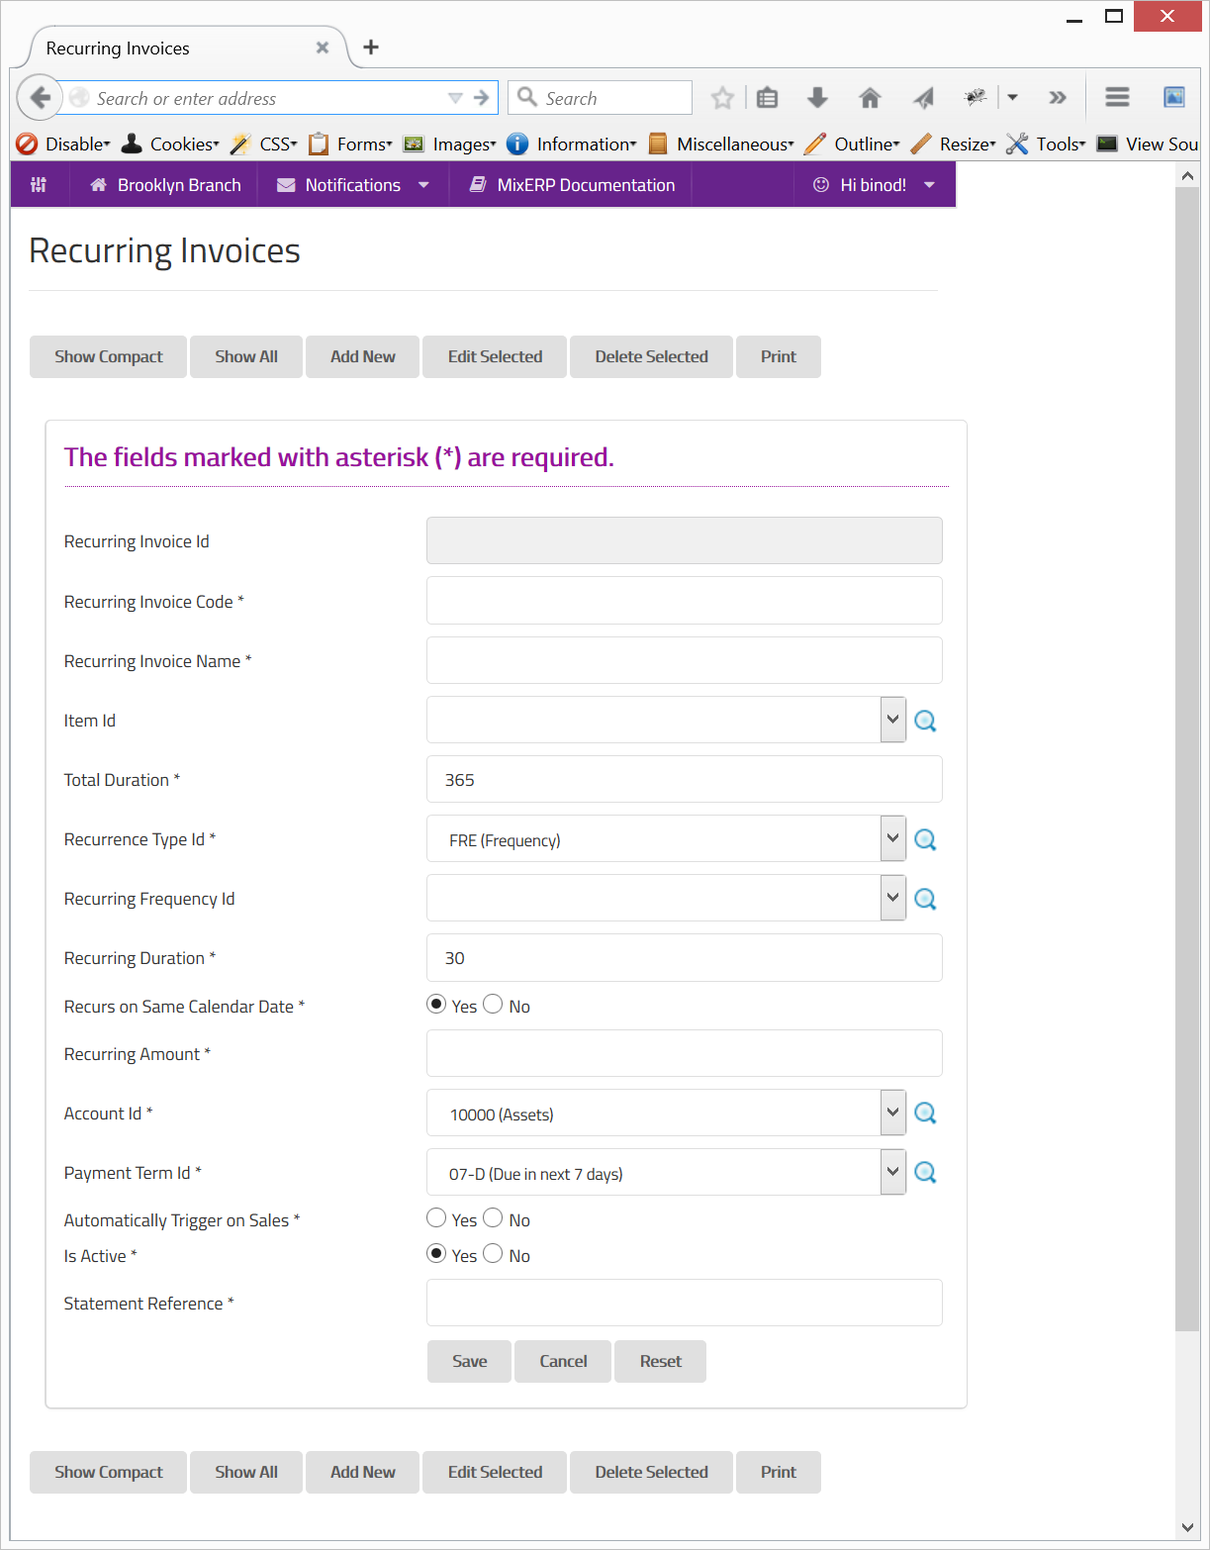
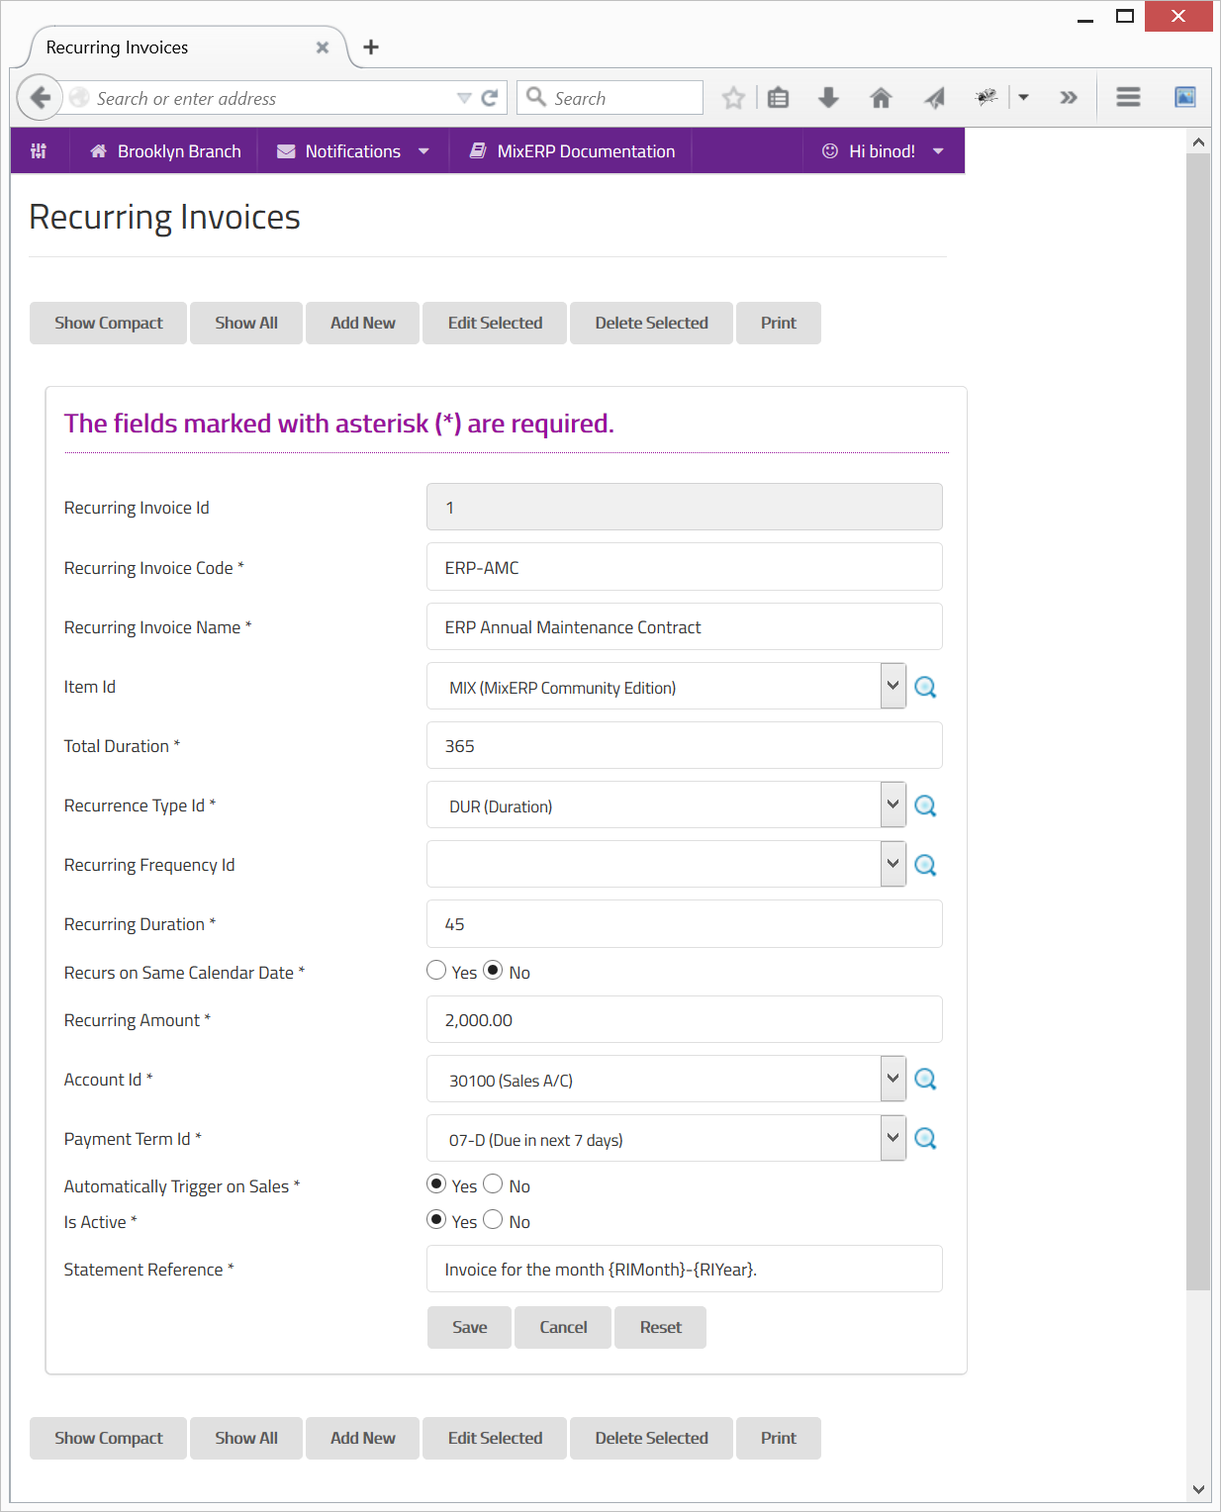
Created and updated documentation of Recurring Invoices

diff --git a/docs/user-guide/sales/setup/recurring-invoices.html b/docs/user-guide/sales/setup/recurring-invoices.html
@@ -2,7 +2,7 @@
 <html lang=en><head><meta charset=utf-8><title>Recurring Invoices</title><script src=/docs/assets/bundles/scripts.js>
 
 
-    </script><link href=//cdn.rawgit.com/noelboss/featherlight/1.2.3/release/featherlight.min.css type=text/css rel=stylesheet title="Featherlight Styles"><link href=/docs/assets/bundles/styles.min.css rel=stylesheet><link href="http://fonts.googleapis.com/css?family=Raleway:300" rel=stylesheet type=text/css><link href="http://fonts.googleapis.com/css?family=Open+Sans" rel=stylesheet type=text/css></head><body><div class="sticky contain-to-grid"><nav class=top-bar data-topbar><ul class=title-area><li class=name><h1><a href=/index.html><img src=/docs/assets/images/mixerp-logo.png></a></h1></li><li class="toggle-topbar menu-icon"><a href=javascript:void(0);><span></span></a></li></ul><section class=top-bar-section><ul class=right><li><a class=right-off-canvas-toggle href=javascript:void(0);> Sub Topics </a></li></ul></section></nav></div><div class=off-canvas-wrap data-offcanvas><div class=inner-wrap><aside class=right-off-canvas-menu><ul class=topics></ul></aside><div class=row><div class="large-12 large-centered columns"><div id=content><h1>Recurring Invoices</h1><p>Recurring invoice is a sophisticated system which saves hours of effort entering the same invoices for each period. Once the invoice details are entered they are never forgotten and are billed on time and for the correct amounts. Recurring Invoicing records details of contracts, including start, end and review dates. Invoices may include hours/quantities multiplied by a rate or simple value amounts. Each contract can be billed daily, on a particular day of the week, e.g. every friday, or on the same day of every month, the same date every year or according to user-defined calendars or dates relative to the last invoice date. This gives complete flexibility to invoicing schedules.</p><p><img src=images/recurring-invoices.png alt="Recurring Invoices"></p><h2>Fields</h2><p><strong>Recurring Invoice Id</strong></p><p>This is an auto-generated and read-only field.</p><p><strong>Recurring Invoice Code</strong></p><p>Provide a unique code name for the recurring invoice.</p><p><strong>Recurring Invoice Name</strong></p><p>Provide a name for the recurring invoice.</p><p><strong>Item Id</strong></p><p>Select the item or search by clicking the icon <i class=item-selector></i>.</p><p><strong>Compound Item Id</strong></p><p>Select the compound item or search by clicking the icon <i class=item-selector></i>.</p><p><strong>Recurring Frequency Id</strong></p><p>Select the recurring frequency or search by clicking the icon <i class=item-selector></i>.</p><p><strong>Recurring Amount</strong></p><p>Specify the amount for recurring of the items.</p><p><strong>Automatically Trigger on Sales</strong></p><p>Click on yes to trigger on sales.</p><div class="alert-box scrud radius"> Since this form implements ScrudFactory helper module, the detailed explanation of this feature is not provided in this document. View <a href=../../core-concepts/scrud-factory.html>ScrudFactory Helper Module Documentation</a> for more information. </div><h2>Related Topics</h2><ul><li><a href=../setup-and-maintenance.html>Setup and Maintenance</a></li></ul></div></div></div><a class=exit-off-canvas></a><footer class=footer><div class="row full-width"><div class="small-12 medium-3 large-3 columns"><i class=fi-download></i><p> MixERP is an open source and free ERP software that provides a suite of useful modules to help you manage your day to day business activities, including but not limited to, sales, purchases, inventory management, finance, customer relationship management, and back-office. Developed with love by your friends at MixERP Inc. </p></div><div class="small-12 medium-3 large-3 columns"><i class=fi-lightbulb></i><p> Some sections in this documentation site are missing. This site is a <a href=index.html#community.md> community effort </a> and work in progress. </p><p> This work is licensed under a <a href=http://creativecommons.org/licenses/by-sa/4.0/ rel=license> Creative Commons Attribution-ShareAlike 4.0 International License </a> . </p></div><div class="small-12 medium-3 large-3 columns"><i class=fi-anchor></i><ul class=footer-links><li><a href=http://mixerp.org/forum target=_blank> MixERP Forums </a></li><li><a href=https://github.com/mixerp/mixerp/issues target=_blank> Submit an Issue </a></li><li><a href=https://github.com/mixerp/mixerp/releases target=_blank> Download Latest Release </a></li><li><a href=http://demo.mixerp.org/SignIn.aspx target=_blank> MixERP Demo Website </a></li></ul><br><br><br></div><div class="small-12 medium-3 large-3 columns"><i class=fi-comments></i><ul class=footer-links><li><a href=http://mixerp.org/ target=_blank> Project Website </a></li><li><a href=https://www.facebook.com/mixerp.official/ target=_blank> Follow MixERP on Facebook </a></li><li><a href=http://www.facebook.com/groups/183076085203506/ target=_blank> Facebook Discussion Group </a></li><li><a href=http://twitter.com/mixoferp/ target=_blank> Follow MixERP on Twitter </a></li><li style="list-style: none; display: inline"><ul></ul></li></ul><br><br><br></div></div></footer></div></div><script src=//cdn.rawgit.com/noelboss/featherlight/1.2.3/release/featherlight.min.js type=text/javascript charset=utf-8></script><script>
+    </script><link href=//cdn.rawgit.com/noelboss/featherlight/1.2.3/release/featherlight.min.css type=text/css rel=stylesheet title="Featherlight Styles"><link href=/docs/assets/bundles/styles.min.css rel=stylesheet><link href="http://fonts.googleapis.com/css?family=Raleway:300" rel=stylesheet type=text/css><link href="http://fonts.googleapis.com/css?family=Open+Sans" rel=stylesheet type=text/css></head><body><div class="sticky contain-to-grid"><nav class=top-bar data-topbar><ul class=title-area><li class=name><h1><a href=/index.html><img src=/docs/assets/images/mixerp-logo.png></a></h1></li><li class="toggle-topbar menu-icon"><a href=javascript:void(0);><span></span></a></li></ul><section class=top-bar-section><ul class=right><li><a class=right-off-canvas-toggle href=javascript:void(0);> Sub Topics </a></li></ul></section></nav></div><div class=off-canvas-wrap data-offcanvas><div class=inner-wrap><aside class=right-off-canvas-menu><ul class=topics></ul></aside><div class=row><div class="large-12 large-centered columns"><div id=content><h1>Recurring Invoices</h1><p>When your business needs to generate invoices on a regular basis, <strong>Recurring Invoices</strong> feature comes handy. Not only recurring invoices saves hours of manual posting task, but also it reduces human mistakes.</p><div class="alert-box scrud radius"> Recurring invoices is a workflow which automatically posts invoices on a periodic basis until the term (total duration) is over. </div><p>So, before you are too overwhelmed by the recurring invoices workflow, let's first understand the GL entry it produces:</p><h2>For Accountants</h2><p>Whenever a recurring invoice is posted, the following GL entry will be created:</p><table border=1 style="border-collapse:collapse;border:1px solid black;width:100%;"><thead><tr><td> Account </td><td> Type </td><td> Amount </td></tr></thead><tbody><tr><td> Associated Party's GL Account </td><td> AP/AR </td><td> Debit </td></tr><tr><td> Mapped Account * </td><td> Income Heading </td><td> Credit </td></tr><tr><td colspan=3> * Mapped account refers to the <b>"Account Id"</b> field associated with the recurring invoice. </td></tr></tbody></table><h3>FAQs</h3><p><strong>Why my recurring invoices are not being posted?</strong></p><p>When creating a recurring invoice, if you switched <strong>"Automatically Trigger on Sales"</strong> off, you will have to <a href=recurring-invoice-setup.html>manually link the recurring invoice</a> you created to a party account first.</p><p><strong>When will recurring invoice(s) be posted?</strong></p><p>Recurring invoices are posted during EOD operation.</p><p><strong>Is there any expression support for the statement reference field?</strong></p><p>Yes.</p><p>The statement reference field supports a couple of expressions:</p><p><strong>RIMonth</strong></p><p>Parses to the month name of the recurring invoice posting date.</p><p><strong>RIYear</strong></p><p>Parses to the year of the recurring invoice posting date.</p><p><strong>For Example</strong></p><p>The statement reference</p><p><em>Invoice for the month {RIMonth}-{RIYear}.</em></p><p>will be parsed as</p><p><em>Invoice for the month <strong>SEP-2015</strong>.</em></p><p>if it was posted during September 2015.</p><p><strong>How can I stop a recurring invoice?</strong></p><p>You can switch the field <strong>"Is Active"</strong> off or delete the associated entry in <a href=recurring-invoice-setup.html>recurring invoice setup</a>; thenceforth, no further invoices will be generated.</p><h2>Core Concepts</h2><p>A recurring invoice is a template that is attached to a product, item, or service that you sell. MixERP provides you an option to automatically trigger and create a mapping during sales. In simple terms, if a recurring invoice is switched on to <strong>"Automatically Trigger on Sales"</strong>, an associated <a href=recurring-invoice-setup.html>recurring-invoice-setup</a> entry will be automatically created.</p><p><img src=images/recurring-invoices.png alt="Recurring Invoices"></p><h3>Scheduling</h3><p>A recurring invoice is only effective for a period (in days), which can be set in the field <strong>Total Duration</strong>. There are two kinds of recurrences types :</p><table border=1 style="border-collapse:collapse;border:1px solid black;width:100%;"><thead><tr><td> Recurrence Type </td><td> Description </td></tr></thead><tbody><tr><td> Frequency </td><td><p> The invoices will be created on the exact frequency definition dates. Therefore, you need to select a <b>Recurring Frequency Id</b> if this option is selected. </p><p> When you select this recurrence type, the field <b>Recurring Duration</b> will be ignored. </p></td></tr><tr><td> Duration </td><td><p> The invoices will be created on schedules. The schedules are determined by the number of days set for the field <b>Recurring Duration</b>. </p><p> When you select this recurrence type, the field <b>Recurring Frequency Id</b> will be ignored. </p><h3>Example</h3> Given the following condition: <ul><li> the invoice is started on Jan 1, </li><li> with total duration of 365 (days), </li><li> the recurring duration is 45 days, </li><li> the field <b>Recurs of Same Calendar Date</b> is switched off, </li></ul> the following schedule is created : <ol><li> Feb 15 (+45 days) </li><li> Mar 31 (+90 days) </li><li> May 15 (+135 days) </li><li> Jun 29 (+180 days) </li><li> Aug 13 (+225 days) </li><li> Sep 27 (+270 days) </li><li> Nov 11 (+315 days) </li><li> Dec 26 (+360 days) </li></ol></td></tr></tbody></table><h3>Recurs on Same Calendar Date</h3><p>You might want to schedule the invoices which become due on the same calendar date of the purchase made. If so, switch this field to "Yes".</p><p>For example, if your customer purchased a plan or service on Jan 15 2000, you would like to have the following schedule :</p><ol><li>Feb 14, 2000 (Due on Feb 15)</li><li>Mar 14, 2000</li><li>Apr 14, 2000</li><li>May 14, 2000</li><li>Jun 14, 2000</li><li>Jul 14, 2000</li><li>Aug 14, 2000</li><li>Sep 14, 2000</li><li>Oct 14, 2000</li><li>Nov 14, 2000</li><li>Dec 14, 2000</li><li>Jan 14, 2001</li></ol><p><strong>Important</strong></p><ul><li>Please note that, the invoices are created on the preceding day of the schedule date during the end of day operation.</li><li>When you switch this field on, the field <strong>Recurring Duration</strong> will be ignored.</li></ul><div class="alert-box scrud radius"> Since this form implements ScrudFactory helper module, the detailed explanation of this feature is not provided in this document. View <a href=../../core-concepts/scrud-factory.html>ScrudFactory Helper Module Documentation</a> for more information. </div><h2>Related Topics</h2><ul><li><a href=../setup-and-maintenance.html>Setup and Maintenance</a></li></ul></div></div></div><a class=exit-off-canvas></a><footer class=footer><div class="row full-width"><div class="small-12 medium-3 large-3 columns"><i class=fi-download></i><p> MixERP is an open source and free ERP software that provides a suite of useful modules to help you manage your day to day business activities, including but not limited to, sales, purchases, inventory management, finance, customer relationship management, and back-office. Developed with love by your friends at MixERP Inc. </p></div><div class="small-12 medium-3 large-3 columns"><i class=fi-lightbulb></i><p> Some sections in this documentation site are missing. This site is a <a href=index.html#community.md> community effort </a> and work in progress. </p><p> This work is licensed under a <a href=http://creativecommons.org/licenses/by-sa/4.0/ rel=license> Creative Commons Attribution-ShareAlike 4.0 International License </a> . </p></div><div class="small-12 medium-3 large-3 columns"><i class=fi-anchor></i><ul class=footer-links><li><a href=http://mixerp.org/forum target=_blank> MixERP Forums </a></li><li><a href=https://github.com/mixerp/mixerp/issues target=_blank> Submit an Issue </a></li><li><a href=https://github.com/mixerp/mixerp/releases target=_blank> Download Latest Release </a></li><li><a href=http://demo.mixerp.org/SignIn.aspx target=_blank> MixERP Demo Website </a></li></ul><br><br><br></div><div class="small-12 medium-3 large-3 columns"><i class=fi-comments></i><ul class=footer-links><li><a href=http://mixerp.org/ target=_blank> Project Website </a></li><li><a href=https://www.facebook.com/mixerp.official/ target=_blank> Follow MixERP on Facebook </a></li><li><a href=http://www.facebook.com/groups/183076085203506/ target=_blank> Facebook Discussion Group </a></li><li><a href=http://twitter.com/mixoferp/ target=_blank> Follow MixERP on Twitter </a></li><li style="list-style: none; display: inline"><ul></ul></li></ul><br><br><br></div></div></footer></div></div><script src=//cdn.rawgit.com/noelboss/featherlight/1.2.3/release/featherlight.min.js type=text/javascript charset=utf-8></script><script>
         window.onload = function () {
 
             var createLinkedImages = function () {

diff --git a/docs/user-guide/sales/setup/recurring-invoices.md b/docs/user-guide/sales/setup/recurring-invoices.md
@@ -1,53 +1,243 @@
 #Recurring Invoices
-Recurring invoice is a sophisticated system which saves hours of
-effort entering the same invoices for each period. Once 
-the invoice details are entered they are never forgotten and are 
-billed on time and for the correct amounts. Recurring Invoicing 
-records details of contracts, including start, end and review dates. 
-Invoices may include hours/quantities multiplied by a rate or simple 
-value amounts. Each contract can be billed daily, on a particular day
-of the week, e.g. every friday, or on the same day of every month, 
-the same date every year or according to user-defined calendars or 
-dates relative to the last invoice date. This gives complete 
-flexibility to invoicing schedules.
+
+When your business needs to generate invoices on a regular basis, **Recurring Invoices** feature comes handy.
+Not only recurring invoices saves hours of manual posting task, but also it reduces human mistakes.
+
+<div class="alert-box scrud radius">
+        Recurring invoices is a workflow which automatically posts invoices on a periodic basis until the
+        term (total duration) is over.
+</div>
+
+So, before you are too overwhelmed by the recurring invoices workflow, let's first understand the GL
+entry it produces:
+
+##For Accountants
+
+Whenever a recurring invoice is posted, the following GL entry will be created:
+
+<table border="1" style="border-collapse:collapse;border:1px solid black;width:100%;">
+    <thead>
+        <tr>
+            <td>
+                Account
+            </td>
+            <td>
+                Type
+            </td>
+            <td>
+                Amount
+            </td>
+        </tr>
+    </thead>
+    <tbody>
+        <tr>
+            <td>
+                Associated Party's GL Account
+            </td>
+            <td>
+                AP/AR
+            </td>
+            <td>
+                Debit
+            </td>
+        </tr>
+        <tr>
+            <td>
+                Mapped Account *
+            </td>
+            <td>
+                Income Heading
+            </td>
+            <td>
+                Credit
+            </td>
+        </tr>
+        <tr>
+            <td colspan="3">
+                * Mapped account refers to the <b>"Account Id"</b> field associated with the recurring invoice.
+            </td>
+        </tr>
+    </tbody>
+</table>
+
+###FAQs
+
+**Why my recurring invoices are not being posted?**
+
+When creating a recurring invoice, if you switched **"Automatically Trigger on Sales"** off,
+you will have to [manually link the recurring invoice](recurring-invoice-setup.md) you created 
+to a party account first. 
+
+**When will recurring invoice(s) be posted?**
+
+Recurring invoices are posted during EOD operation.
+
+**Is there any expression support for the statement reference field?**
+
+Yes.
+
+The statement reference field supports a couple of expressions:
+
+**RIMonth**
+
+Parses to the month name of the recurring invoice posting date.
+
+**RIYear**
+
+Parses to the year of the recurring invoice posting date.
+
+**For Example**
+
+The statement reference
+
+*Invoice for the month {RIMonth}-{RIYear}.*
+
+will be parsed as
+
+*Invoice for the month **SEP-2015**.*
+
+if it was posted during September 2015.
+
+**How can I stop a recurring invoice?**
+
+You can switch the field **"Is Active"** off or delete the associated entry in 
+[recurring invoice setup](recurring-invoice-setup.md); thenceforth, no further invoices will be generated.
+
+
+##Core Concepts
+
+A recurring invoice is a template that is attached to a product, item, or service that you sell.
+MixERP provides you an option to automatically trigger and create a mapping during sales. In simple terms,
+if a recurring invoice is switched on to **"Automatically Trigger on Sales"**, an associated
+[recurring-invoice-setup](recurring-invoice-setup.md) entry will be automatically created.
+
 
 ![Recurring Invoices](images/recurring-invoices.png)
 
-##Fields
-
-**Recurring Invoice Id**
-
-This is an auto-generated and read-only field.
-
-**Recurring Invoice Code**
-
-Provide a unique code name for the recurring invoice.
 
 
-**Recurring Invoice Name**
+###Scheduling
 
-Provide a name for the recurring invoice.
-
-**Item Id**
-
- Select the item or search by clicking the icon <i class="item-selector"></i>.
-
-**Compound Item Id**
-
- Select the compound item or search by clicking the icon <i class="item-selector"></i>.
-
-**Recurring Frequency Id**
-
- Select the recurring frequency or search by clicking the icon <i class="item-selector"></i>.
+A recurring invoice is only effective for a period (in days), which can be set in the field **Total Duration**.
+There are two kinds of recurrences types :
 
 
-**Recurring Amount**
+<table border="1" style="border-collapse:collapse;border:1px solid black;width:100%;">
+    <thead>
+        <tr>
+            <td>
+                Recurrence Type
+            </td>
+            <td>
+                Description
+            </td>
+        </tr>
+    </thead>
+    <tbody>
+        <tr>
+            <td>
+                Frequency
+            </td>
+            <td>
+                <p>
+                    The invoices will be created on the exact frequency definition dates.
+                    Therefore, you need to select a <b>Recurring Frequency Id</b> if this option is selected.
+                </p>
+                <p>
+                    When you select this recurrence type, the field <b>Recurring Duration</b> will be ignored.
+                </p>
+            </td>
+        </tr>
+        <tr>
+            <td>
+                Duration
+            </td>
+            <td>
+                <p>
+                    The invoices will be created on schedules. The schedules are determined by
+                    the number of days set for the field <b>Recurring Duration</b>.
+                </p>
+                <p>
+                    When you select this recurrence type, the field <b>Recurring Frequency Id</b> will be ignored.
+                </p>
+                <h3>Example</h3>
+                Given the following condition:
+                <ul>
+                    <li>
+                        the invoice is started on Jan 1,
+                    </li>
+                    <li>
+                        with total duration of 365 (days),
+                    </li>
+                    <li>
+                        the recurring duration is 45 days,
+                    </li>
+                    <li>
+                        the field <b>Recurs of Same Calendar Date</b> is switched off,
+                    </li>
+                </ul>
+                the following schedule is created :
+                <ol>
+                    <li>
+                        Feb 15 (+45 days)
+                    </li>
+                    <li>
+                        Mar 31 (+90 days)
+                    </li>
+                    <li>
+                        May 15 (+135 days)
+                    </li>
+                    <li>
+                        Jun 29 (+180 days)
+                    </li>
+                    <li>
+                        Aug 13 (+225 days)
+                    </li>
+                    <li>
+                        Sep 27 (+270 days)
+                    </li>
+                    <li>
+                        Nov 11 (+315 days)
+                    </li>
+                    <li>
+                        Dec 26 (+360 days)
+                    </li>
+                </ol>
+            </td>
+        </tr>
+    </tbody>
+</table>
 
- Specify the amount for recurring of the items.
 
-**Automatically Trigger on Sales**
+###Recurs on Same Calendar Date
 
- Click on yes to trigger on sales.
+You might want to schedule the invoices which become due on the same calendar date of the purchase made. If so,
+switch this field to "Yes".
+
+For example, if your customer purchased a plan or service on Jan 15 2000, you would like to have the following schedule :
+
+1. Feb 14, 2000 (Due on Feb 15)
+2. Mar 14, 2000
+3. Apr 14, 2000
+4. May 14, 2000
+5. Jun 14, 2000
+6. Jul 14, 2000
+7. Aug 14, 2000
+8. Sep 14, 2000
+9. Oct 14, 2000
+10. Nov 14, 2000
+11. Dec 14, 2000
+12. Jan 14, 2001
+
+
+**Important**
+
+* Please note that, the invoices are created on the preceding day of the schedule date during the end of day
+operation.
+* When you switch this field on, the field **Recurring Duration** will be ignored.
+
+
+
 
 
 
